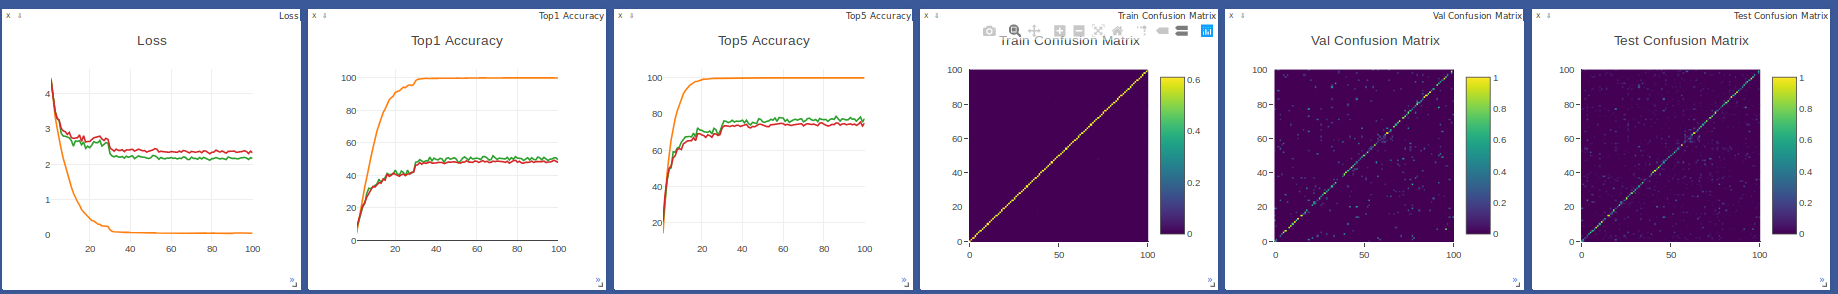
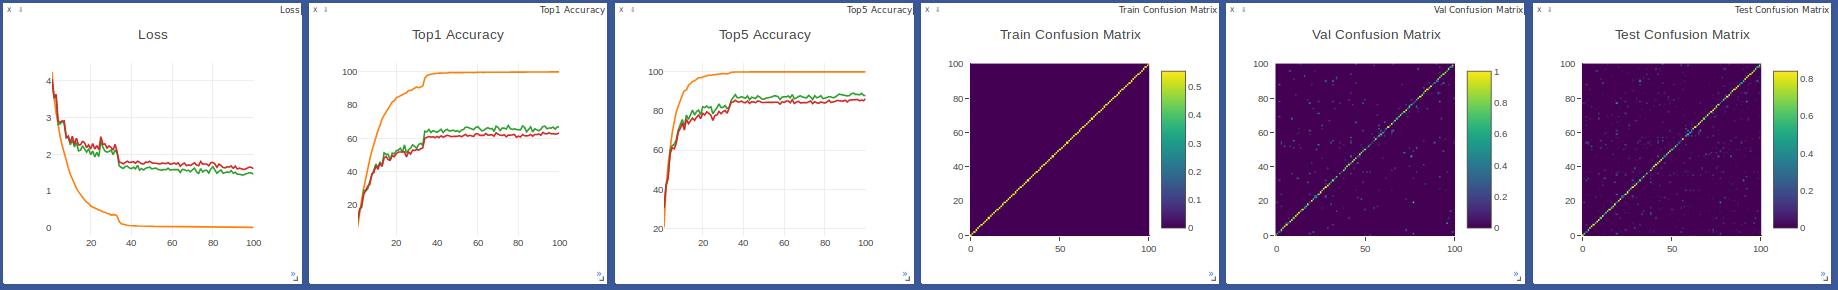
add hmdb51 results

diff --git a/README.md b/README.md
@@ -127,14 +127,14 @@ The videos are preprocessed as 32 frames of 128x128, and cropped to 112x112.
     </tr>
     <tr>
       <td align="center">Accuracy (R2Plus1D)</td>
-      <td align="center"><b>49.22%</b></td>
-      <td align="center"><b>58.59±2.47</b></td>
+      <td align="center"><b>63.60%</b></td>
+      <td align="center">24.97%</td>
       <td align="center"><b>74.44±0.47</b></td>
     </tr>
     <tr>
       <td align="center">Accuracy (C3D)</td>
-      <td align="center">81.67±9.64</td>
-      <td align="center">25.10%</td>
+      <td align="center">51.63%</td>
+      <td align="center"><b>25.10%</b></td>
       <td align="center">75.72±3.13</td>
     </tr>
     <tr>
@@ -171,11 +171,11 @@ The train/val/test loss、accuracy and confusion matrix are showed on visdom.
 **R2Plus1D**
 ![result](results/ucf101_r2plus1d.png)
 **C3D** 
-![result](results/ucf101.png)
+![result](results/ucf101_c3d.png)
 
 ### HMDB51
 **R2Plus1D**
-![result](results/hmdb51.png)
+![result](results/hmdb51_r2plus1d.png)
 **C3D** 
 ![result](results/hmdb51_c3d.png)
 
